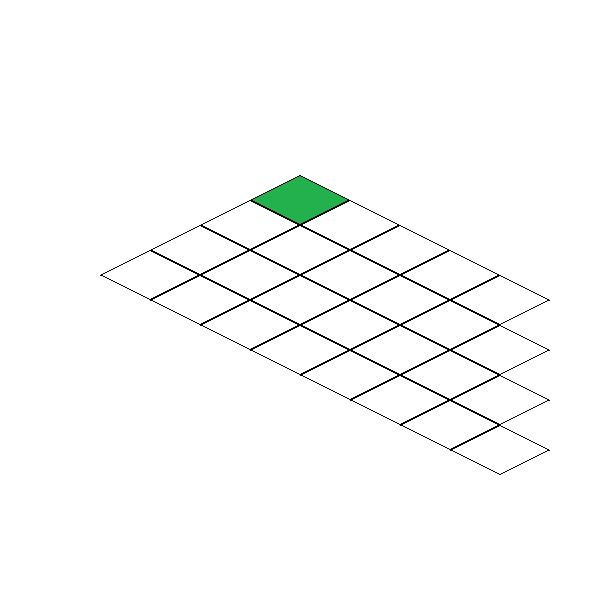
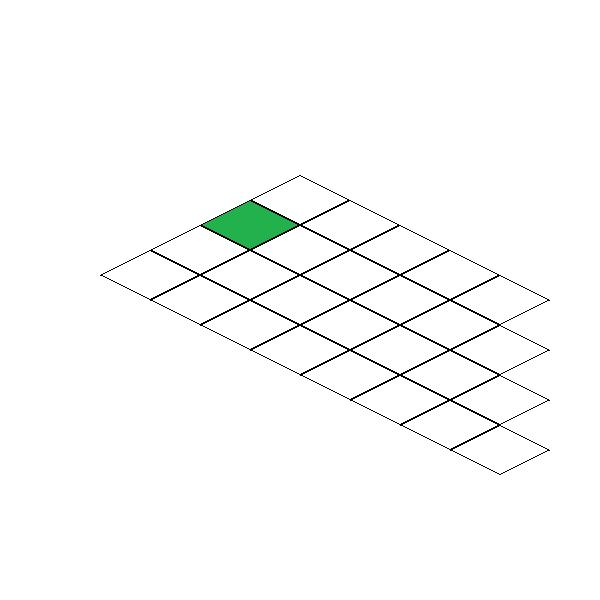
Fixed map renderer (drawSprite function was broken)

Changed region(s): [[0.33, 0.27, 0.57, 0.42]]

diff --git a/map_render.py b/map_render.py
@@ -4,64 +4,80 @@ from sprite import SpriteDrawer, Sprite
 from tiles import Tile
 
 class MapRenderer:
+    # @staticmethod
+    # def render(map, app, viewMapLoc, screenSize, spriteDrawer, tileSize):
+    #     viewMapRow, viewMapCol = viewMapLoc
+    #     renderedMap = MapRenderer.createRenderedMap(map, app, viewMapLoc, screenSize, tileSize)
+    #     map.setRenderedMap(renderedMap)
+
+    #     renderedRows = len(renderedMap.tileList)
+    #     renderedCols = len(renderedMap.tileList[0]) 
+
+    #     spriteDrawer.drawSprite(renderedMap.tileList[0,0].getSprite(), 200, 200)
+
     @staticmethod
     def render(map, app, viewMapLoc, screenSize, spriteDrawer, tileSize):
         tileList = map.tileList
         viewMapRow, viewMapCol = viewMapLoc
         renderedMap = MapRenderer.createRenderedMap(map, app, viewMapLoc, screenSize, tileSize)
+        map.setRenderedMap(renderedMap)
         renderedRows = len(renderedMap.tileList)
         renderedCols = len(renderedMap.tileList[0])        
         tileWidth, tileHeight = tileSize[0], tileSize[1]
-        tileWidthHalf = tileWidth//2
-        tileHeightHalf = tileHeight//2
-
         screenWidth = screenSize[0]
         screenHeight = screenSize[1]
 
         startX,startY = MapRenderer.getMapStartLocation(screenSize,tileSize, renderedRows, renderedCols)
-        print(startX,startY)
+        # print(startX,startY)
 
         relativeRow = 0
         relativeCol = 0
         m = np.zeros((len(tileList), len(tileList[0])))
+        l = []
 
-        print(f"lowerY: {renderedMap.lowerY}, upperY: {renderedMap.upperY}")
-        print(f"lowerX: {renderedMap.lowerX}, upperX: {renderedMap.upperX}")
+        # print(f"lowerY: {renderedMap.lowerY}, upperY: {renderedMap.upperY}")
+        # print(f"lowerX: {renderedMap.lowerX}, upperX: {renderedMap.upperX}")
         
         renderer = MapRenderer()
-
+        i = 0
         # --------- this code still breaks things ---------
         for relativeRow in range(renderedRows):
             for relativeCol in range(renderedCols):
                 # print(relativeRow,relativeCol)
-                realRow = relativeRow + viewMapRow
-                realCol = relativeCol + viewMapCol
+                realRow = relativeRow + (viewMapRow - len(tileList)//2)
+                realCol = relativeCol + (viewMapCol - len(tileList[0])//2)
+                
                 # tile = tileList[realRow,realCol]
-                tile = renderedMap.tileList[relativeRow, relativeCol]
+                # tile = renderedMap.tileList[relativeRow, relativeCol]
+                # print(realRow,realCol, len(map.tileList),len(map.tileList[0]))
+                tile = tileList[realRow, realCol]
                 tileSprite = tile.getSprite()
+                l.append(tile)
+
+
+                # if(tile in renderedTiles): print("bonga")
+                # if(tileSprite == Tile.getSpriteByName("green_tile")): print("bazinga")
+                # renderedTiles.append(tile)
+
                 screenX,screenY = Tile.mapToScreenCords((relativeRow, relativeCol), tile.getSize(),screenSize, map.renderedMap, renderer)
                 
                 # print(screenX,screenY)
                 if -tileWidth<=startX + screenX<=screenWidth + tileWidth and -tileHeight<=startY + screenY<=screenHeight + tileHeight:
                     spriteDrawer.drawSprite(tileSprite, screenX, screenY)
                 relativeCol+=1
-
-        # for row in range(renderedMap.lowerY, renderedMap.upperY):
-        #     relativeCol = 0
-        #     for col in range(renderedMap.lowerX, renderedMap.upperX):
-        #         tile = tileList[row,col]
-        #         tileSprite = tile.getSprite()
-                
-        #         screenX = (relativeRow - relativeCol) * tileWidth//2;
-        #         screenY = (relativeRow + relativeCol) * tileHeight//2;
-
-        #         if -tileWidth<=startX + screenX<=screenWidth + tileWidth and -tileHeight<=startY + screenY<=screenHeight + tileHeight:
-        #             spriteDrawer.drawSprite(tileSprite, startX + screenX, startY + screenY)
-        #         relativeCol+=1
-        #     relativeRow+=1
+                i+=1
+        a = np.array(l)
+        a = a.reshape(renderedRows, renderedCols)
         m[renderedMap.lowerY: renderedMap.upperY, renderedMap.lowerX: renderedMap.upperX] = 1
+        # print(a)
+
         # print(m)
-        # print(map.to1DList() in renderedMap.to1DList())
+        # print(map.getRenderedMap().tileList)
+        # print(f"RenderedRows: {renderedRows}, RenderedCols: {renderedCols}")
+        # print(f"'a' row: {len(a)}, 'a' cols: {len(a[0])}")
+        # print(f"i: {i}")
+    
+        # print(map.to1DList() in rsenderedMap.to1DList())
         return renderedMap
     
     def generateRepeatMap(self, sprite, size):
@@ -86,10 +102,7 @@ class MapRenderer:
     def getRelativeMapLocation(currentViewRow, currentViewCol, absoluteRow, absoluteCol, map):
         if (map == None): return absoluteRow, absoluteCol
         rows, cols = len(map.tileList), len(map.tileList[0])
-        # viewColDistanceFromCenter = (currentViewCol - cols//2)
-        # viewRowDistanceFromCenter = (currentViewRow - rows//2)
 
-        # print(absoluteRow - currentViewRow, absoluteCol - currentViewCol)
         return (absoluteRow -  currentViewRow, absoluteCol - currentViewCol)
 
     @staticmethod
@@ -133,9 +146,9 @@ class MapRenderer:
         
         renderedMap = Map(tileList[yLowerBound:yUpperBound, xLowerBound:xUpperBound], 
                           (xLowerBound, xUpperBound, yLowerBound, yUpperBound))
-        print("bounds:", (xLowerBound, xUpperBound), (yLowerBound, yUpperBound))
-        print(renderedMap.tileList[:,0])
-        print(f'rows: {len(renderedMap.tileList)}, cols: {len(renderedMap.tileList[0])}')
+        # print("bounds:", (xLowerBound, xUpperBound), (yLowerBound, yUpperBound))
+        # print(renderedMap.tileList[:,0])
+        # print(f'rows: {len(renderedMap.tileList)}, cols: {len(renderedMap.tileList[0])}')
 
         # m[xLowerBound:xUpperBound, yLowerBound: yUpperBound] = 1
         map.setRenderedMap(renderedMap)
@@ -164,13 +177,8 @@ class Map:
         self.renderedMap = None
     
     def setRenderedMap(self, renderedMap):
+        self.renderedMap = None
         self.renderedMap = renderedMap
 
     def getRenderedMap(self):
         return self.renderedMap
-    
-    # def inBounds(self, row, col):
-    #     return self.lowerY<=row<self.upperY and self.lowerX<=col<self.upperX
-    
-    # def to1DList(self):
-    #     return self.tileList.reshape(1, len(self.tileList) * len(self.tileList[0]))

diff --git a/Main.py b/Main.py
@@ -5,6 +5,7 @@ from sprite import SpriteDrawer, Sprite
 from map_render import MapRenderer, Map
 from tiles import Tile
 import math
+import os
 
 
 # Go in numpy and make it so only the part of the map you can see if being rendered at one time 
@@ -31,7 +32,7 @@ def onAppStart(app):
 
     app.ignorableColor = (255,255,255)
     app.tileImage = Image.open("sprites/TileShape.png")
-    app.spriteDrawer = SpriteDrawer(app.img, (app.width,app.height), app.imgName)
+    app.spriteDrawer = SpriteDrawer(app, (app.width,app.height), app.imgName)
     
 def redrawAll(app):
     drawImage("screen.jpg", 0, 0)
@@ -48,6 +49,8 @@ def onMouseMove(app, mouseX,mouseY):
     if mapLoc != None and mapLoc != app.prevHoveredTileLoc:
         row, col = mapLoc
         app.prevHoveredTileLoc = (row,col)
+        t = app.map.tileList[row,col]
+        print(t, (t.row,t.col))
         Tile.changeHighlight(app.map.tileList[row, col], (app.currentViewRow, app.currentViewCol), 
                              app.map, app.mapRenderer, (app.width,app.height), app.spriteDrawer)
         
@@ -81,8 +84,8 @@ def getTile(app, mouseX, mouseY, screenSize, map, onlyRendered = False):
     relativeRow = row
     relativeCol = col
     if(app.currentViewCol != None and app.currentViewRow != None):
-        row += app.currentViewRow
-        col += app.currentViewCol
+        row += app.currentViewRow - (len(map.tileList)//2)
+        col += app.currentViewCol - (len(map.tileList[0])//2)
        
     if onlyRendered and ((0 > relativeRow or relativeRow>=len(renderedMap.tileList)) or 
                          (0 > relativeCol or relativeCol>=len(renderedMap.tileList[0]))): return None
@@ -130,12 +133,12 @@ def onKeyPress(app,key):
 
     elif key == 'up' and app.map.tileList.size!=0:
         tileSprite = Sprite(app.tileImage)
-        app.currentViewRow -= 1
+        app.currentViewRow += 1
         clearScreen(app)
         MapRenderer.render(app.map, app, (app.currentViewRow, app.currentViewCol), (app.width,app.height), app.spriteDrawer, tileSprite.getSize())
     elif key == 'down' and app.map.tileList.size!=0:
         tileSprite = Sprite(app.tileImage)
-        app.currentViewRow +=1
+        app.currentViewRow -=1
         clearScreen(app)
         MapRenderer.render(app.map, app, (app.currentViewRow, app.currentViewCol), (app.width,app.height), app.spriteDrawer, tileSprite.getSize())
     elif key == 'right' and app.map.tileList.size!=0:
@@ -150,6 +153,13 @@ def onKeyPress(app,key):
         MapRenderer.render(app.map, app, (app.currentViewRow, app.currentViewCol), (app.width,app.height), app.spriteDrawer, tileSprite.getSize())
     
 def clearScreen(app):
+    # a = np.asarray(app.img).copy()[:,:,:3]
+    # a[:,:] = [255,255,255]
+    # newImg = Image.fromarray(a, mode = "RGB")
+    # app.img = newImg
+    # os.remove(f'{app.imgName}.jpg')
+    # app.img.save(f'{app.imgName}.jpg')
+    
     app.img = loadScreen(app, None)
 
 runApp()

diff --git a/sprite.py b/sprite.py
@@ -38,27 +38,28 @@ class Sprite():
 class SpriteDrawer:
     ignorableColor = [255,255,255]
     
-    def __init__(self, screen, screenSize, screenName):
-        self.screen = screen
+    def __init__(self, app, screenSize, screenName):
+        self.app = app
         self.width = screenSize[0]
         self.height = screenSize
         self.screenName = screenName
 
-    def drawSprite(self, sprite, x, y):
-        screenData = np.asarray(self.screen).copy()
-        screenWidth = len(screenData)
-        screenHeight = len(screenData[0])
+    def drawSprite(self,sprite, x, y):
+        screenData = np.asarray(self.app.img)[:,:,:3].copy()
+        screenWidth = len(screenData[0])
+        screenHeight = len(screenData)
         spriteData = sprite.getData()
         x = int(x)
         y = int(y)        
         cols, rows = sprite.getSize()
 
         for row in range(rows):
-            if(0<=y+row<=screenWidth-1):
+            if(0<=y+row<screenHeight):
                 for col in range(cols):
-                    if (0<=x+col<=screenHeight-1 and
+                    if (0<=x+col<screenWidth and
                         spriteData[row,col][:3].tolist() != SpriteDrawer.ignorableColor):
                         # print(row,col)
+                        # print("bonga")
                         screenData[y + row, x + col][:3] = spriteData[row,col][:3]
 
                         # try:
@@ -71,7 +72,8 @@ class SpriteDrawer:
         self.updateScreen(newScreen)
 
     def updateScreen(self, newScreen):
-        if(newScreen != None): self.screen = newScreen
+        # screen = self.app.img
+        if(newScreen != None): self.app.img = newScreen
         self.loadScreen(newScreen)
 
     def loadScreen(self, img):

diff --git a/tiles.py b/tiles.py
@@ -23,10 +23,11 @@ class Tile():
     def __eq__(self,other):
         return isinstance(other, Tile) and self.col == other.col and self.row == other.row
 
+    def __hash__(self):
+        return hash(str(self))
     # Changes sprite without making an alias
     def changeSprite(self, newSprite):
         self.sprite = newSprite
-
     def getSprite(self):
         return self.sprite
     
@@ -58,8 +59,8 @@ class Tile():
     def redrawTile(tile, viewMapLoc, spriteDrawer, screenSize, map, mapRenderer):
         currentViewMapRow, currentViewMapCol = viewMapLoc
         # relativeRow,relativeCol = mapRenderer.getRelativeMapLocation(currentViewMapRow, currentViewMapCol, tile.row, tile.col, map)
-        relativeRow = tile.row - currentViewMapRow
-        relativeCol = tile.col - currentViewMapCol
+        relativeRow = tile.row - (currentViewMapRow - len(map.tileList)//2)
+        relativeCol = tile.col - (currentViewMapCol - len(map.tileList[0])//2)
         # print(f'absRow: {tile.row}, absCol: {tile.col}, relativeRow: {relativeRow}, relativeCol: {relativeCol}')
 
         screenX, screenY = Tile.mapToScreenCords((relativeRow, relativeCol), tile.getSize(),screenSize, map.renderedMap, mapRenderer)
